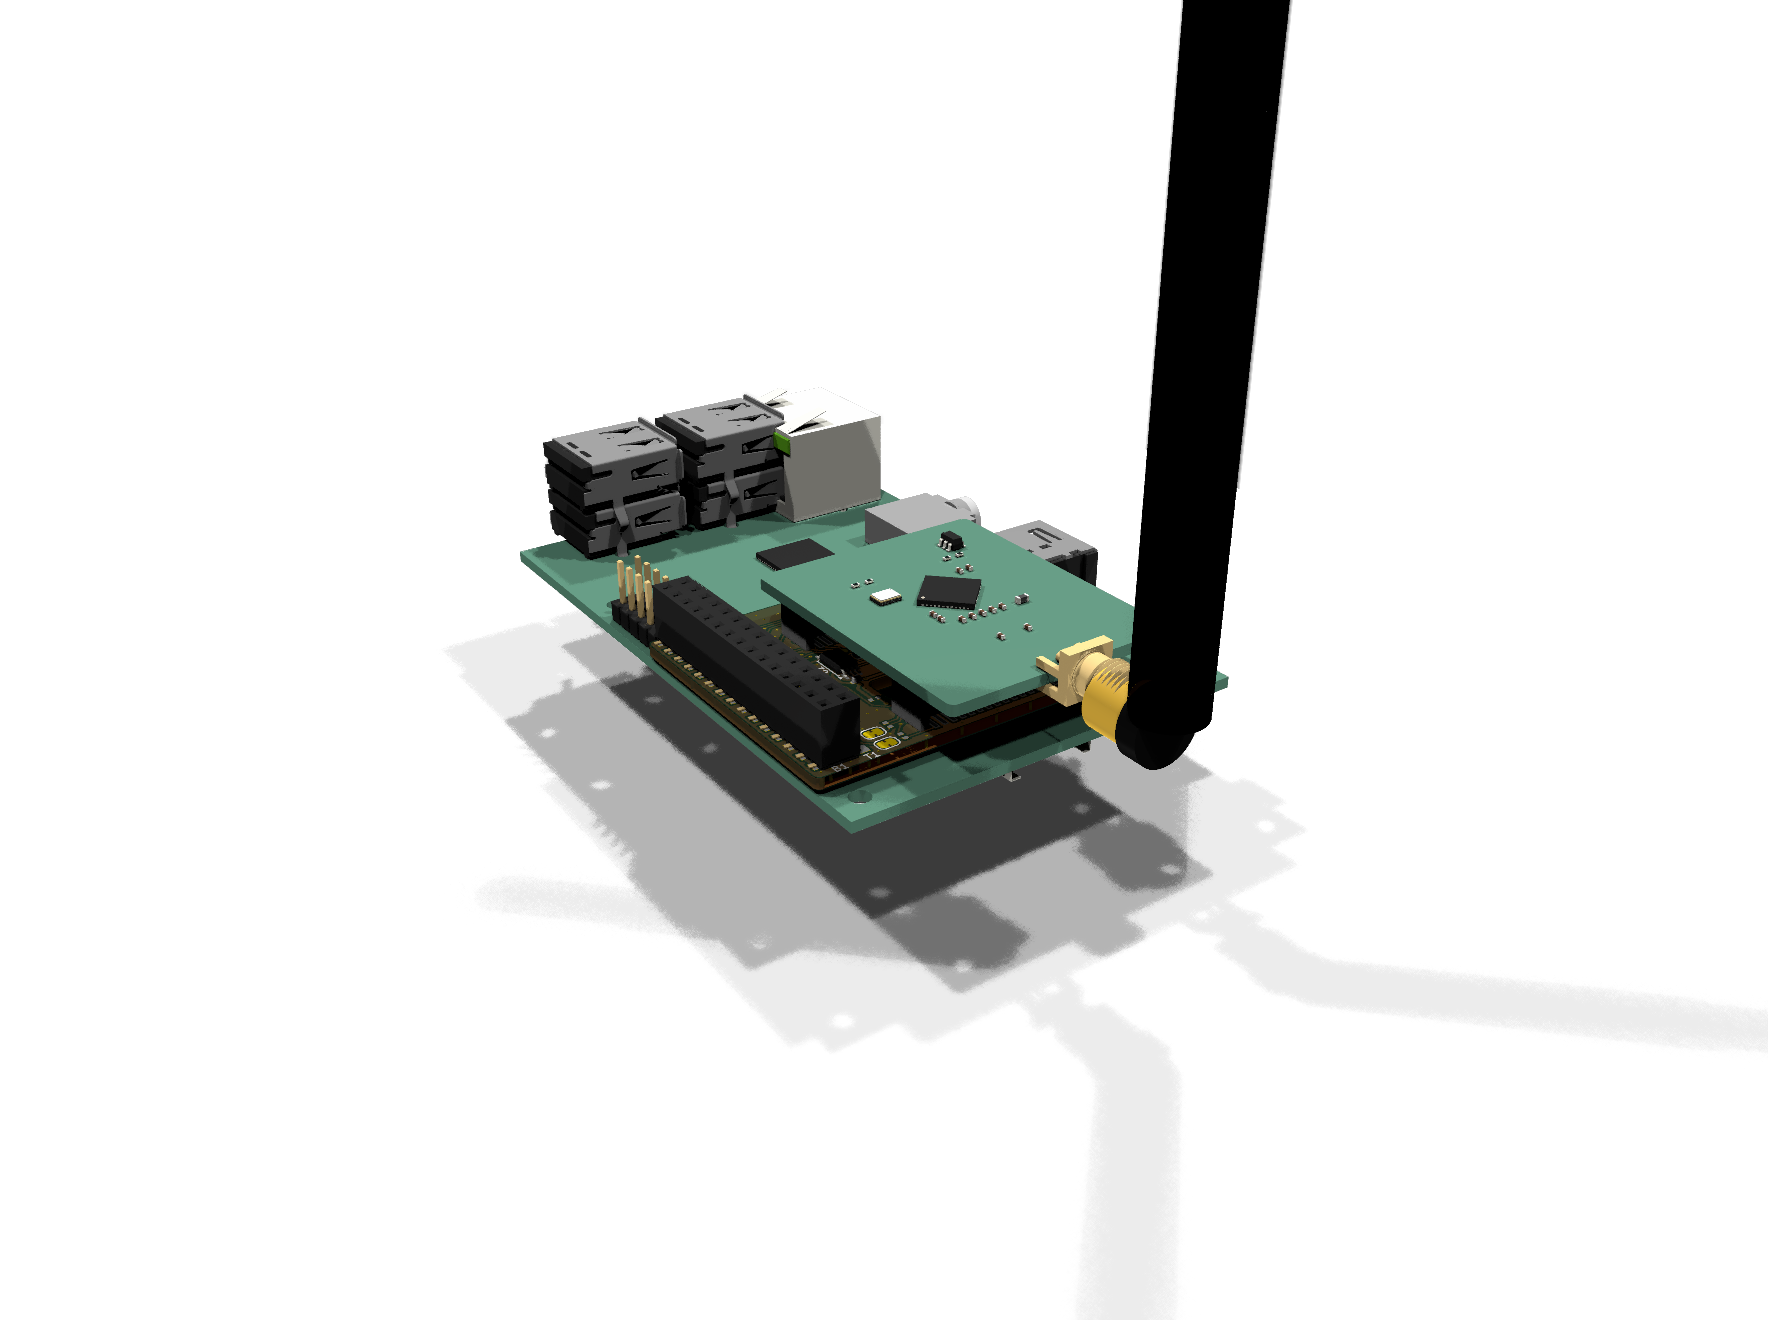
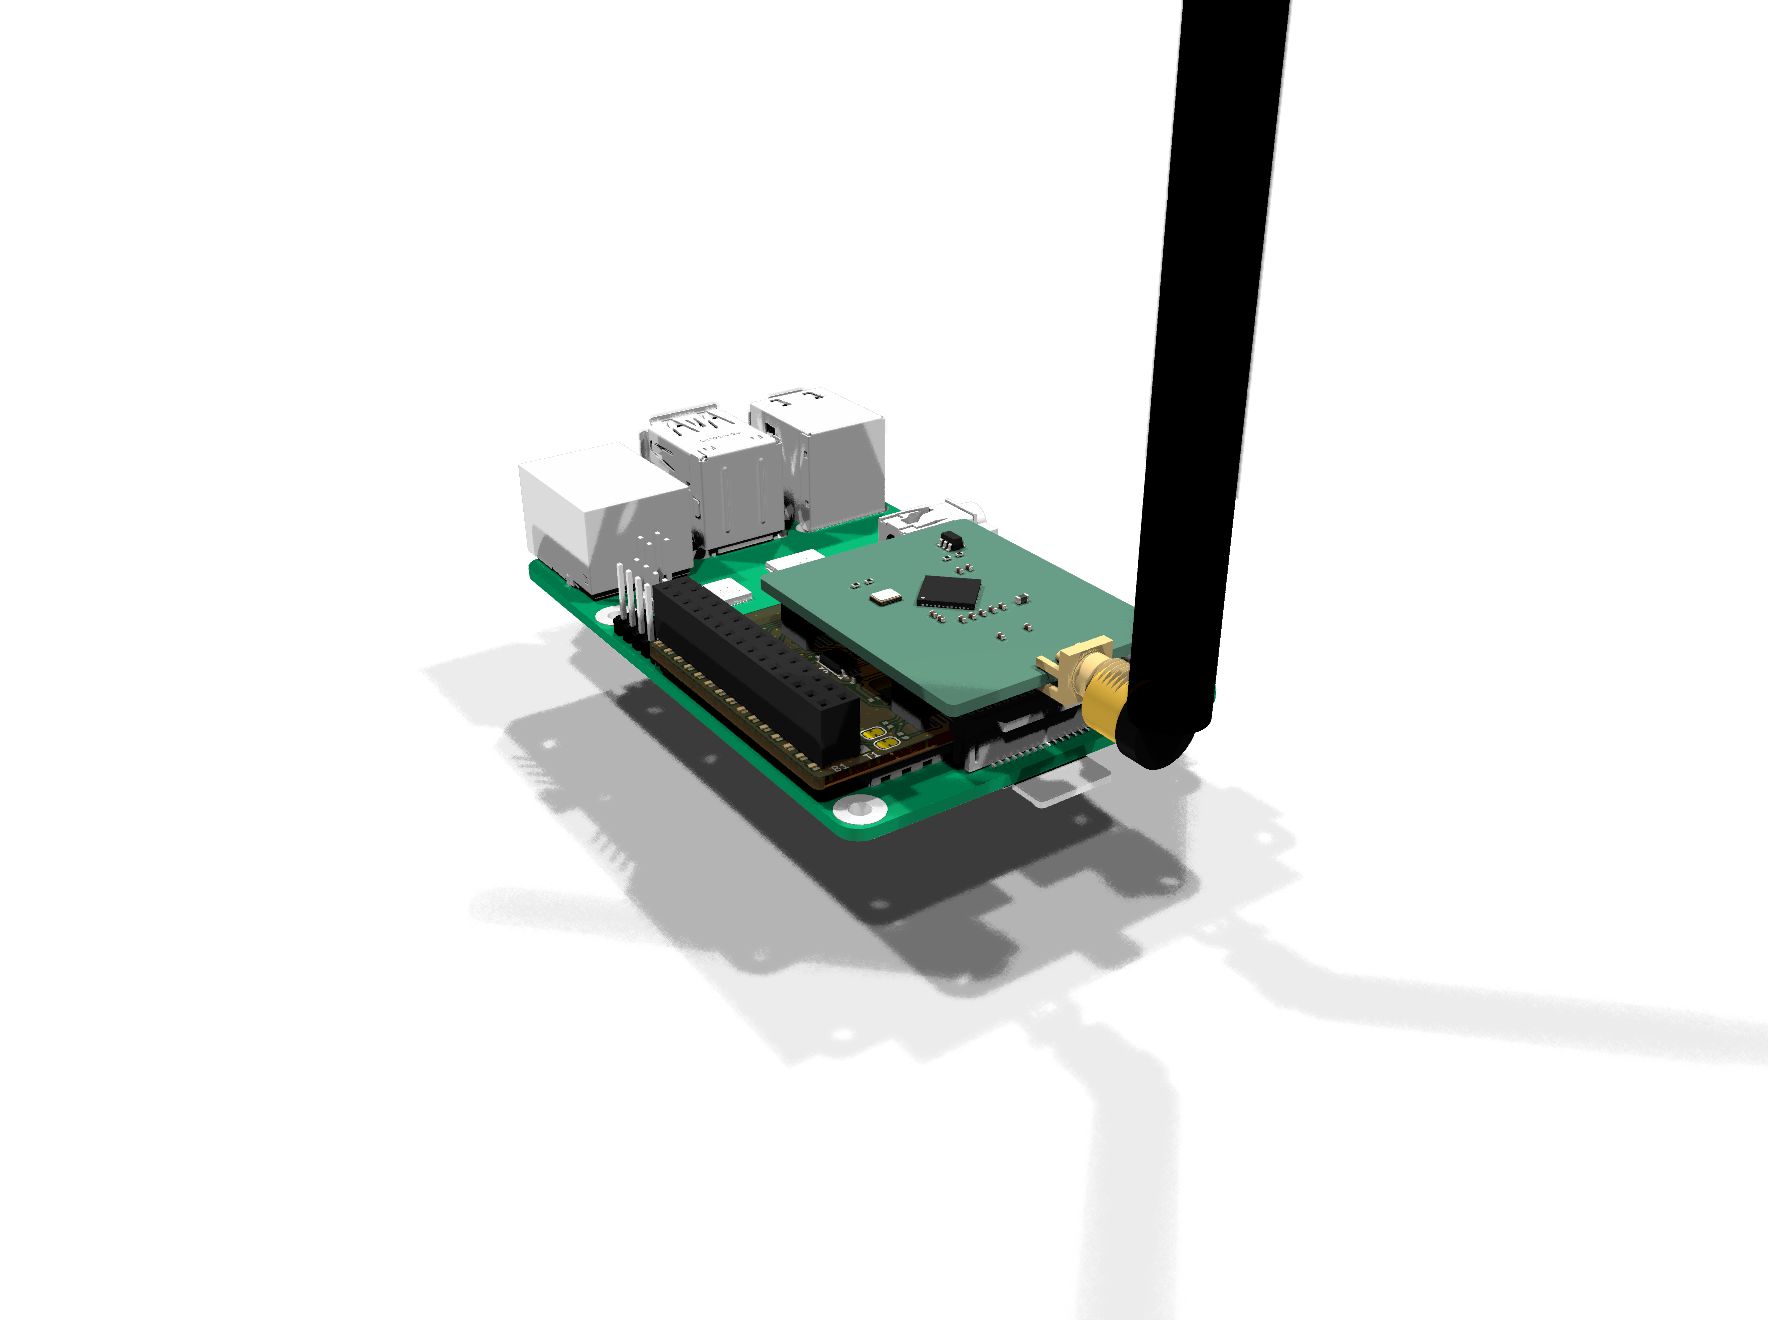
renders: real Raspberry Pi 4B model instead of library stand-ins
The Pi stand-in had broken stacked USB ports and a misoriented HDMI connector.
It is replaced by the Pi 4B STEP model from the FreeCAD parts library (CC-BY 3.0).
The model is downloaded at render time and is not committed. Its header,
holes and outline match the Pi 3B and Pi 5.

Claude-Session: https://claude.ai/code/session_01NdGLVAcWNnBXKQpCaswFNe

Changed region(s): [[0.28, 0.2795, 0.6844, 0.7765], [0.6844, 0.497, 0.7155, 0.528], [0.6533, 0.5591, 0.6844, 0.5902]]

diff --git a/hardware/gen/render_context.py b/hardware/gen/render_context.py
@@ -1,13 +1,17 @@
-"""Realistic context renders: the adapter on a Raspberry Pi 3B, BRD4265B plugged in, SMA whip antenna.
+"""Context renders: the adapter on a Raspberry Pi 4B, BRD4265B plugged in, SMA whip antenna.
 
-No vendor CAD is used (none is published under a licence that allows this repo): the Pi and the radio board are
-built here as KiCad boards from KiCad's own library footprints and 3D models (CC-BY-SA), at the positions of the
-Raspberry Pi 3B mechanical drawing and the assumed BRD4265B outline. Both are built directly in the adapter's
-coordinate frame, exported to STEP and attached to a copy of the adapter as board-only 3D models.
+Raspberry Pi 4B: STEP model from the FreeCAD parts library (github.com/FreeCAD/FreeCAD-library,
+Computing/SingleBoardComputers/Raspberry/Raspberry Pi 4B), licensed CC-BY 3.0. It is downloaded into out/context
+on first run and is not stored in this repository. Header, holes and outline match the Pi 3B / 5 as well.
+Radio board: built here as a KiCad board from KiCad's library footprints and 3D models (CC-BY-SA) on the assumed
+BRD4265B outline (no vendor CAD is available), exported to STEP and attached to a copy of the adapter.
 Run with KiCad's Python:  python.exe render_context.py
 """
-import os, math, subprocess
+import os, math, subprocess, urllib.request
 import pcbnew
+
+PI_URL = ('https://raw.githubusercontent.com/FreeCAD/FreeCAD-library/master/Computing/SingleBoardComputers/'
+          'Raspberry/Raspberry%20Pi%204B/Raspberry%20Pi%204B.step')
 
 HERE = os.path.dirname(os.path.abspath(__file__))
 KDIR = os.path.normpath(os.path.join(HERE, '..', 'kicad'))
@@ -16,32 +20,14 @@ CLI = r'C:\Program Files\KiCad\10.0\bin\kicad-cli.exe'
 FPL = r'C:\Program Files\KiCad\10.0\share\kicad\footprints'
 IN = 25.4 / 10                       # VRML unit
 
-# ---- Raspberry Pi 3B, mechanical drawing frame: px along the header edge (0..85), py from the header edge (0..56).
+# ---- Raspberry Pi, mechanical drawing frame: px along the header edge (0..85), py from the header edge (0..56).
 # GPIO pin 1 at (8.37, 4.77); J1 hole of RPi pin 1 on the adapter is at (5.253, -2.457).
+# The FreeCAD STEP is Y-up: x = px, z = py - 56, y = height above the Pi PCB top.
+# Rotating it +90 deg about X gives board coords (px, py - 56); a footprint at orientation 90 maps that to
+# (py - 56, -px), so the footprint sits at (P1X - 4.77 + 56, P1Y + 8.37).
 P1X, P1Y = 5.253, -2.457
-PI_TOP = -2.5                        # adapter bottom rests on the 2.5 mm header body
-PI_T = 1.4
-
-
-def pi_xy(px, py):
-    return P1X + (py - 4.77), P1Y - (px - 8.37)
-
-
-# (footprint, px, py, rot in the Pi frame, side)
-PI_PARTS = [
-    ('Connector_PinHeader_2.54mm:PinHeader_2x20_P2.54mm_Vertical', 8.37, 4.77, 90, 'F'),
-    ('Connector_USB:USB_A_Molex_67643_Horizontal', 79.0, 9.0, 0, 'F'),
-    ('Connector_USB:USB_A_Molex_67643_Horizontal', 79.0, 27.0, 0, 'F'),
-    ('Connector_RJ:RJ45_Amphenol_RJHSE538X', 76.0, 45.75, 0, 'F'),
-    ('Connector_Video:HDMI_A_Molex_208658-1001_Horizontal', 32.0, 52.0, 0, 'F'),
-    ('Connector_USB:USB_Micro-B_Molex_47346-0001', 10.6, 54.0, 0, 'F'),
-    ('Connector_Audio:Jack_3.5mm_CUI_SJ1-3523N_Horizontal', 53.5, 50.0, 0, 'F'),
-    ('Package_BGA:BGA-144_13.0x13.0mm_Layout12x12_P1.0mm', 30.0, 31.0, 0, 'F'),
-    ('Package_DFN_QFN:QFN-64-1EP_9x9mm_P0.5mm_EP4.1x4.1mm', 59.0, 31.0, 0, 'F'),
-    ('Connector_Card:microSD_HC_Hirose_DM3D-SF', 6.0, 28.0, 90, 'B'),
-]
-STACKED = {'Connector_USB:USB_A_Molex_67643_Horizontal': 7.2}   # second port of each USB stack, mm above the first
-PI_HOLES = [(3.5, 3.5), (61.5, 3.5), (3.5, 52.5), (61.5, 52.5)]
+PI_POS = (P1X - 4.77 + 56.0, P1Y + 8.37)
+PI_Z = -1.6 - 2.5                    # Pi PCB top: adapter bottom rests on the 2.5 mm header body
 
 # ---- radio board stand-in (VERIFY on a real BRD4265B): 32.5 mm along the connectors, 11 mm beyond P200,
 # 5 mm beyond P201; SMA on the P200 end; sockets on its bottom side.
@@ -116,16 +102,7 @@ def build(path, corners, r, parts, holes, color):
     for x, y, d in holes:
         hole(b, x, y, d)
     for p in parts:
-        fp = place(b, *p)
-        dz = STACKED.get(p[0])
-        if dz:
-            m0 = fp.Models()[0]
-            m = pcbnew.FP_3DMODEL()
-            m.m_Filename = m0.m_Filename
-            m.m_Offset = pcbnew.VECTOR3D(m0.m_Offset.x, m0.m_Offset.y, m0.m_Offset.z + dz)
-            m.m_Rotation = m0.m_Rotation
-            m.m_Scale = m0.m_Scale
-            fp.Models().append(m)
+        place(b, *p)
     b.Save(path)
 
 
@@ -171,28 +148,32 @@ def antenna(path):
 
 def main():
     os.makedirs(OUT, exist_ok=True)
-    # Raspberry Pi 3B in the adapter frame
-    c = [pi_xy(*p) for p in ((0, 0), (85, 0), (85, 56), (0, 56))]
-    parts = [(f, *pi_xy(px, py), rot + 90, side) for f, px, py, rot, side in PI_PARTS]
-    holes = [(*pi_xy(px, py), 2.75) for px, py in PI_HOLES]
-    pi = os.path.join(OUT, 'rpi3b.kicad_pcb')
-    build(pi, c, 3.0, parts, holes, '#1E7A3A')
+    pi_step = os.path.join(OUT, 'pi4b.step')
+    if not os.path.exists(pi_step) or os.path.getsize(pi_step) < 1e6:
+        print('downloading', PI_URL)
+        urllib.request.urlretrieve(PI_URL, pi_step)
     rb = os.path.join(OUT, 'brd4265b.kicad_pcb')
     build(rb, [(RB[0], RB[1]), (RB[2], RB[1]), (RB[2], RB[3]), (RB[0], RB[3])], 1.0, RB_PARTS, [], '#14191F')
-    step(pi, os.path.join(OUT, 'rpi3b.step'))
     step(rb, os.path.join(OUT, 'brd4265b.step'))
     antenna(os.path.join(OUT, 'antenna.wrl'))
     # adapter copy with the context models
     b = pcbnew.LoadBoard(os.path.join(KDIR, 'ionos_maximus.kicad_pcb'))
-    fp = pcbnew.FOOTPRINT(b)
-    fp.SetReference('CTX1'); fp.Reference().SetVisible(False); fp.Value().SetVisible(False)
-    fp.SetBoardOnly(True); fp.SetExcludedFromBOM(True); fp.SetExcludedFromPosFiles(True)
-    for name, z in (('rpi3b.step', PI_TOP - PI_T), ('brd4265b.step', RB_Z), ('antenna.wrl', 0.0)):
-        m = pcbnew.FP_3DMODEL()
-        m.m_Filename = os.path.join(OUT, name).replace('\\', '/')
-        m.m_Offset = pcbnew.VECTOR3D(0, 0, z)
-        fp.Models().append(m)
-    b.Add(fp)
+
+    def ctx_fp(ref, pos, rot, models):
+        fp = pcbnew.FOOTPRINT(b)
+        fp.SetReference(ref); fp.Reference().SetVisible(False); fp.Value().SetVisible(False)
+        fp.SetBoardOnly(True); fp.SetExcludedFromBOM(True); fp.SetExcludedFromPosFiles(True)
+        for name, z, mrot in models:
+            m = pcbnew.FP_3DMODEL()
+            m.m_Filename = os.path.join(OUT, name).replace('\\', '/')
+            m.m_Offset = pcbnew.VECTOR3D(0, 0, z)
+            m.m_Rotation = pcbnew.VECTOR3D(*mrot)
+            fp.Models().append(m)
+        b.Add(fp)
+        fp.SetPosition(v(*pos)); fp.SetOrientationDegrees(rot)
+
+    ctx_fp('CTX1', (0, 0), 0, [('brd4265b.step', RB_Z, (0, 0, 0)), ('antenna.wrl', 0.0, (0, 0, 0))])
+    ctx_fp('CTX2', PI_POS, 90, [('pi4b.step', PI_Z, (-90, 0, 0))])   # KiCad applies the negated angle
     ctx = os.path.join(KDIR, '_context.kicad_pcb')       # next to the project, so ${KIPRJMOD} models resolve
     b.Save(ctx)
     print('built', ctx)

diff --git a/hardware/README.md b/hardware/README.md
@@ -6,7 +6,7 @@ A carrier between a Raspberry Pi and a Silicon Labs radio board (BRD4265B, EFR32
 
 Schematic: [ionos_maximus_schematic.pdf](ionos_maximus_schematic.pdf).
 
-<p align="center"><img src="../docs/img/rev-a_stack_iso.png" width="80%" alt="rev A on a Raspberry Pi 3 with radio board and SMA antenna"></p>
+<p align="center"><img src="../docs/img/rev-a_stack_iso.png" width="80%" alt="rev A on a Raspberry Pi 4B with radio board and SMA antenna"></p>
 
 | Top | Bottom |
 | --- | --- |
@@ -16,7 +16,12 @@ Schematic: [ionos_maximus_schematic.pdf](ionos_maximus_schematic.pdf).
 | --- | --- |
 | <img src="../docs/img/rev-a_stack_back.png" alt="stack, back"> | <img src="../docs/img/rev-a_stack_side.png" alt="stack, side"> |
 
-The stack renders are for orientation only. The Raspberry Pi 3 and the radio board are built from KiCad library parts (40-pin header, USB, RJ45, HDMI, jack, SoC, QFN, SMA) at their drawing positions. They are not vendor models. The radio-board outline and the position of the SMA connector are assumptions, see "Mechanics". Context renders: `gen/render_context.py`.
+The stack renders are for orientation only.
+
+- **Raspberry Pi 4B model:** from the [FreeCAD parts library](https://github.com/FreeCAD/FreeCAD-library) (CC-BY 3.0). It is downloaded at render time and is not stored in this repo. The header, holes and outline are the same on the Pi 3B and Pi 5.
+- **Radio board:** a stand-in built from KiCad library parts (CC-BY-SA). Its outline and the SMA position are assumptions, see "Mechanics".
+
+The renders are made by `gen/render_context.py`.
 
 ## Mechanics
 
@@ -63,7 +68,7 @@ gen/gen_sch.py         writes kicad/ionos_maximus.kicad_sch + .kicad_sym
 gen/mkfp.py            builds kicad/ionos_maximus.pretty from ionos-sdr-mini and RPi_ISM
 gen/gen_pcb.py         placement, outline (from RPi_ISM), slot keepout, GND pours (KiCad python)
 gen/check_pinmap.py    independent check of the netlist against the README pin map
-gen/render_context.py  3D context renders (Pi 3 + radio board + antenna stand-ins)
+gen/render_context.py  3D context renders (Pi 4B FreeCAD model + radio board stand-in + antenna)
 kicad/                 KiCad 10 project, JLC 2-layer 1 oz rules (.kicad_dru from RPi_ISM)
 kicad/3dmodels/        STEP models of every fitted part, referenced via ${KIPRJMOD}
 ```

diff --git a/README.md b/README.md
@@ -141,7 +141,7 @@ Details in [docs/measurement-plan.md](docs/measurement-plan.md).
 
 ## Hardware
 
-<p align="center"><img src="docs/img/rev-a_stack_iso.png" width="70%" alt="ionos-maximus rev A on a Raspberry Pi 3 with an EFR32FG23 radio board and SMA antenna"></p>
+<p align="center"><img src="docs/img/rev-a_stack_iso.png" width="70%" alt="ionos-maximus rev A on a Raspberry Pi 4B with an EFR32FG23 radio board and SMA antenna"></p>
 
 KiCad 10 project, generators and checks are in [`hardware/`](hardware/README.md).
 
@@ -151,7 +151,7 @@ Rev A status:
 - Board: 2 layers, routed. DRC 0 errors, 0 unconnected, schematic parity 0.
 - Not fabricated yet.
 
-The Pi and the radio board in the render are stand-ins built from KiCad library parts.
+In the render, the Raspberry Pi 4B model comes from the [FreeCAD parts library](https://github.com/FreeCAD/FreeCAD-library) (CC-BY 3.0). The radio board is a stand-in built from KiCad library parts.
 
 ## Licensing
 
